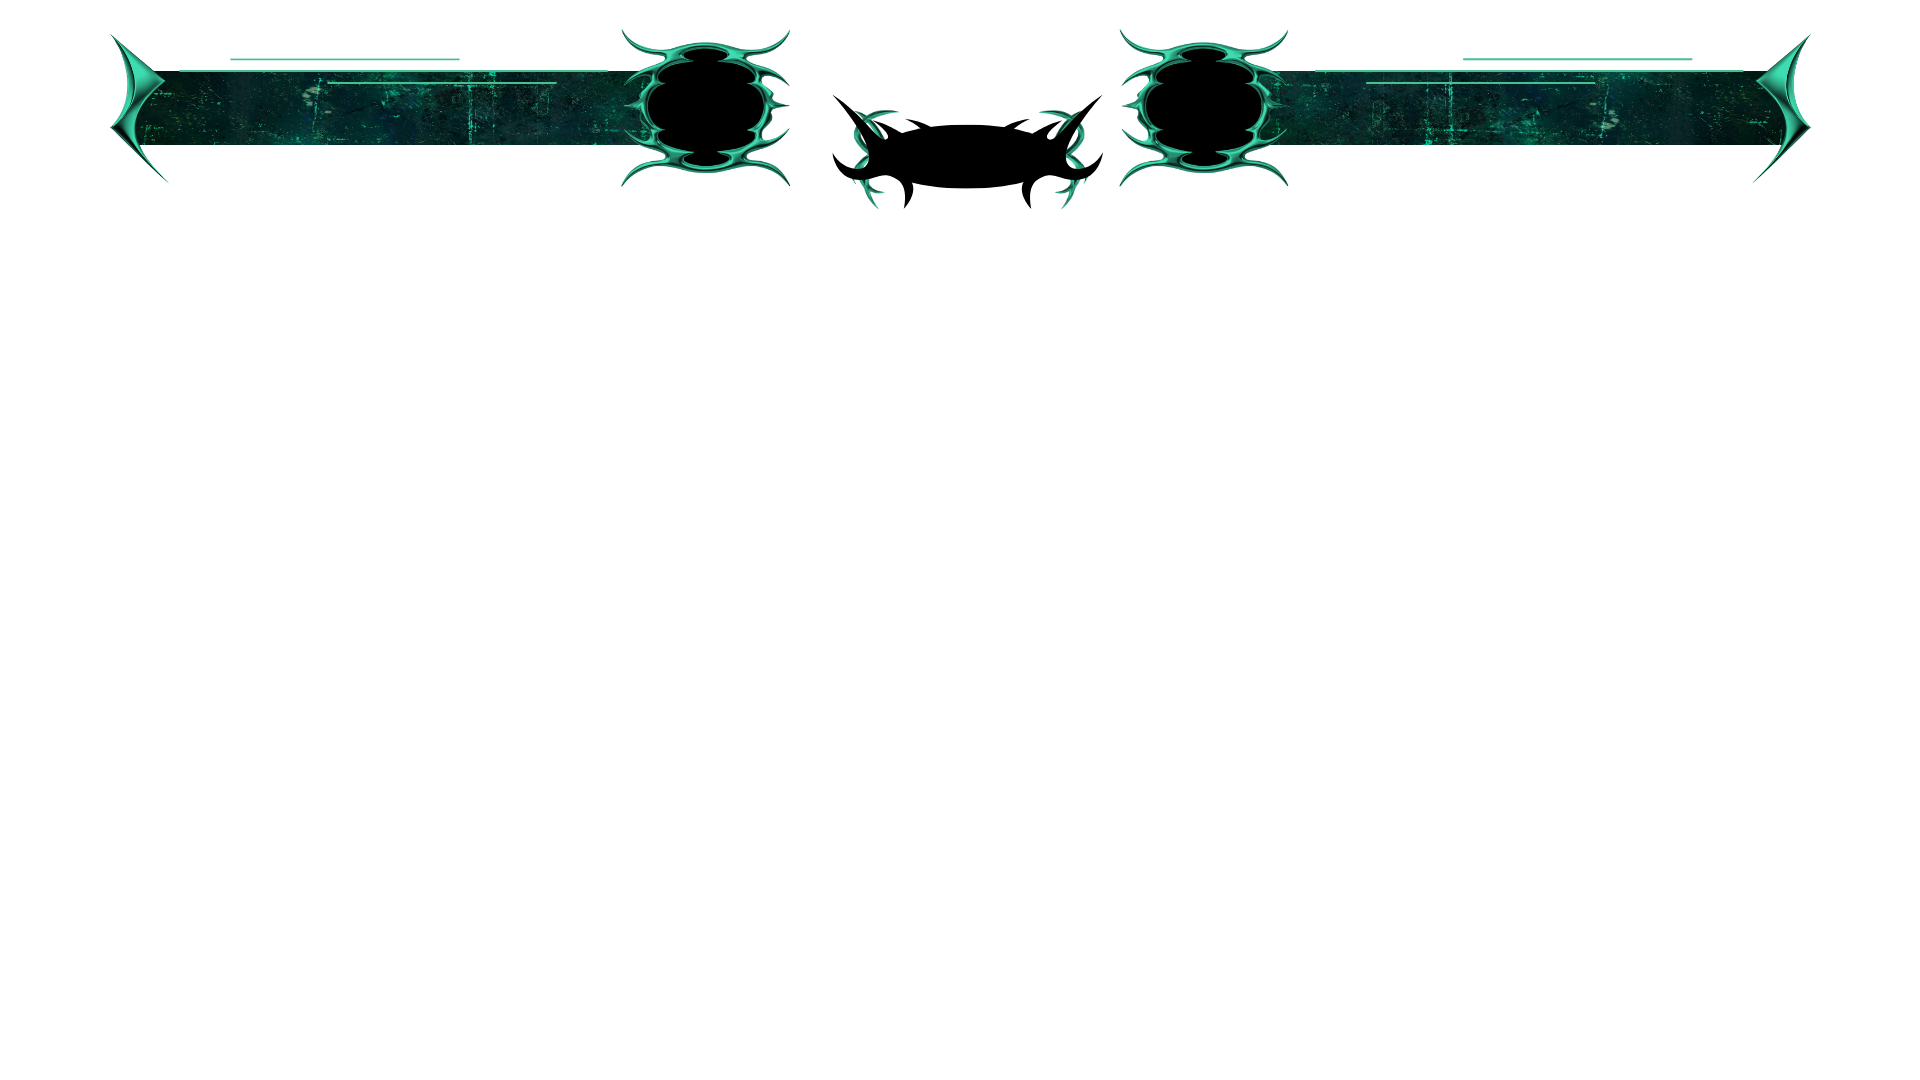
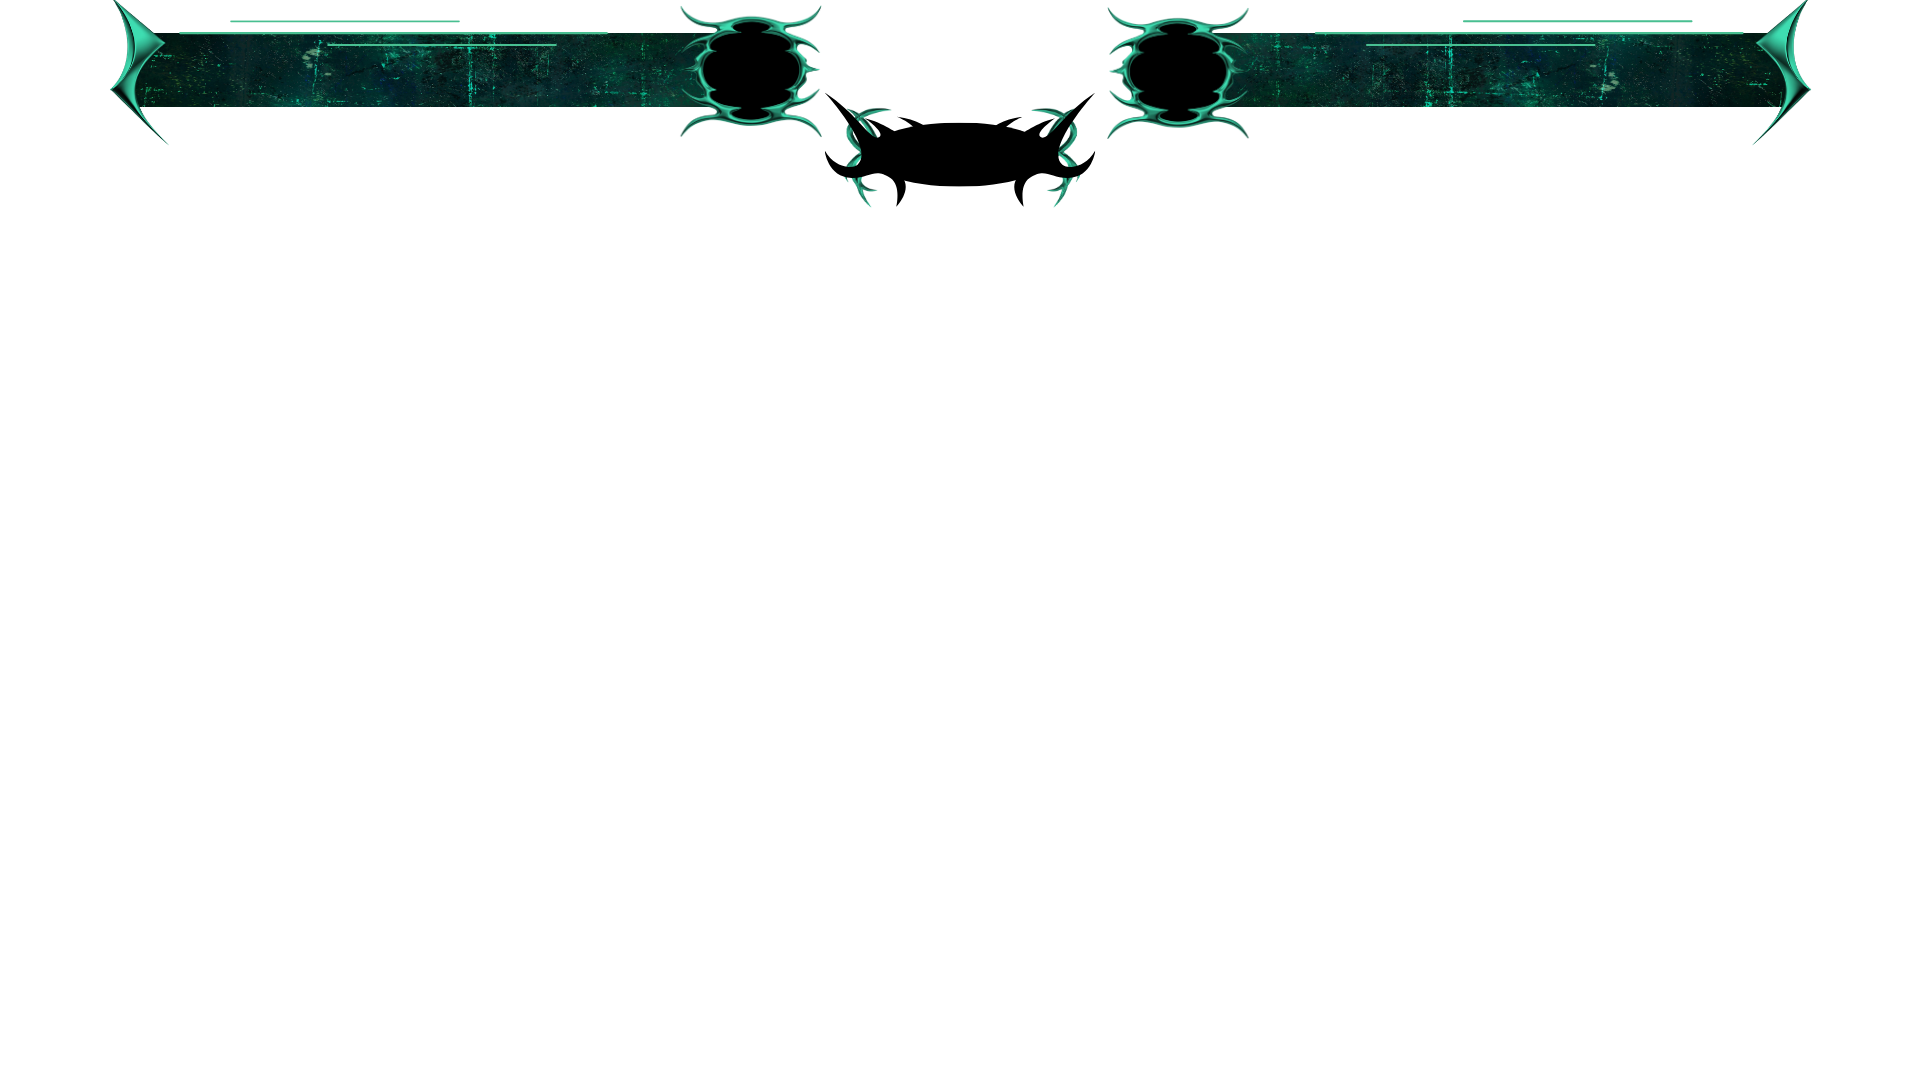
Update Twist of Fate Stream Design

Changed region(s): [[0.0625, 0.0, 0.9375, 0.1833]]

diff --git a/Stream Tool/Resources/CSS/RoA Scoreboard Twist of Fate.css b/Stream Tool/Resources/CSS/RoA Scoreboard Twist of Fate.css
@@ -36,7 +36,7 @@
 
 #p1name {
     font-size: 40px;
-    top: 113px;
+    top: 75px;
     left: 270px;
     transform: translateX(-50%);
     transform: translateY(-50%);
@@ -45,33 +45,33 @@
 
 #char1icon {
     width: 50px;
-    top: 90px;
+    top: 55px;
     left: 160px;
 }
 
 #p1pronouns {
     font-size: 20px;
-    top: 38px;
+    top: 2px;
     left: 480px;
 }
 
 #p1score {
-    font-size: 80px;
-    top: 49px;
-    left: 706px;
+    font-size: 70px;
+    top: 22px;
+    left: 752px;
     transform: translateX(-50%);
     white-space: nowrap;
 }
 
 #p1wl {
     font-size: 25px;
-    top: 37px;
-    left: 190px;
+    top: 57px;
+    left: 660px;
 }
 
 #p2name {
     font-size: 40px;
-    top: 113px;
+    top: 75px;
     left: 1360px;
     transform: translateX(-50%);
     transform: translateY(-50%);
@@ -80,26 +80,26 @@
 
 #char2icon {
     width: 50px;
-    top: 90px;
+    top: 55px;
     left: 1720px;
 }
 
 #p2pronouns {
     font-size: 20px;
-    top: 38px;
+    top: 2px;
     left: 1375px;
 }
 
 #p2score {
-    font-size: 80px;
-    top: 49px;
-    left: 1205px;
+    font-size: 70px;
+    top: 22px;
+    left: 1178px;
     transform: translateX(-50%);
     white-space: nowrap;
 }
 
 #p2wl {
     font-size: 25px;
-    top: 37px;
-    left: 1715px;
+    top: 57px;
+    left: 1255px;
 }